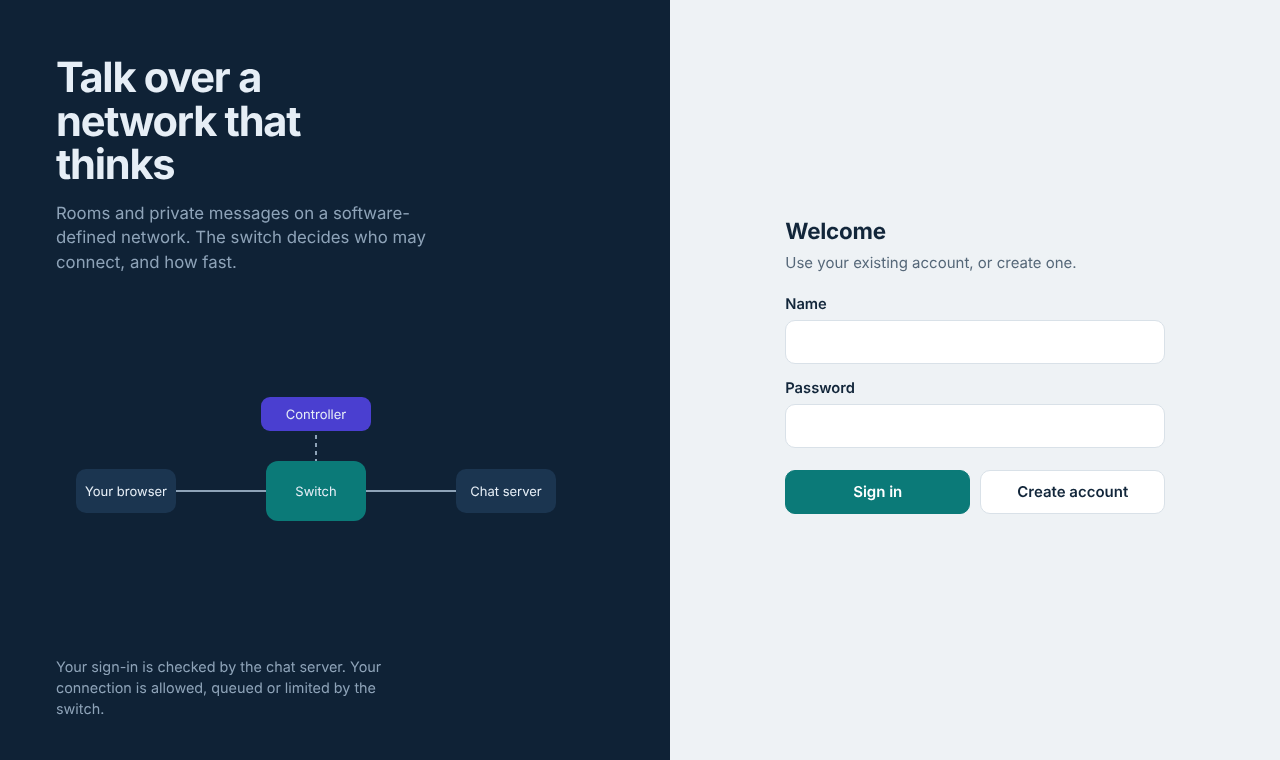
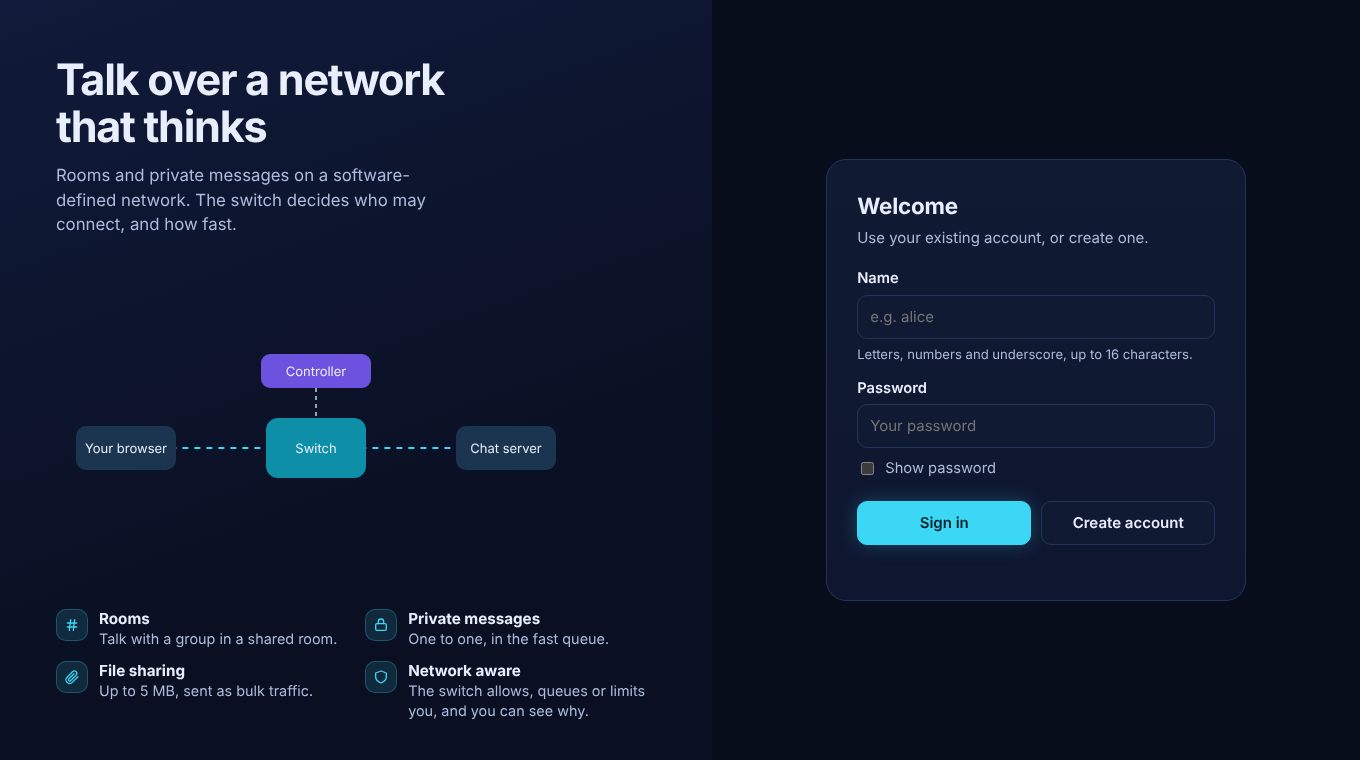
Web chat redesign: bubbles, emoji popover, network card, sign-in features (#25)
Claude-Session: https://claude.ai/code/session_01B4cDAn8Jq8GJJrH72ftTQv

diff --git a/chat/web/index.html b/chat/web/index.html
@@ -29,12 +29,19 @@
   /* ---------- sign in ---------- */
   #login { min-height:100%; display:grid; grid-template-columns:minmax(0,1.1fr) minmax(0,1fr); }
   .brand { background:linear-gradient(160deg,#101a3a,#0a1022 70%); color:var(--rail-ink); padding:56px 56px 40px; display:flex; flex-direction:column; justify-content:space-between; gap:32px; }
-  .brand h1 { font-size:2.6rem; line-height:1.05; margin:0 0 14px; letter-spacing:-.03em; max-width:12ch; }
+  .brand h1 { font-size:2.7rem; line-height:1.08; margin:0 0 14px; letter-spacing:-.03em; max-width:16ch; }
   .brand p { color:var(--rail-muted); max-width:38ch; margin:0; font-size:1.05rem; }
   .brand svg { width:100%; max-width:520px; height:auto; }
   .brand .legend { color:var(--rail-muted); font-size:.9rem; margin:0; }
+  .feats { list-style:none; margin:0; padding:0; display:grid; grid-template-columns:1fr 1fr; gap:12px 18px; }
+  .feats li { display:flex; gap:11px; align-items:flex-start; color:var(--rail-muted); font-size:.9rem; line-height:1.35; }
+  .feats li b { display:block; color:var(--rail-ink); font-size:.95rem; }
+  .feats .fi { width:32px; height:32px; border-radius:10px; flex:none; display:grid; place-items:center; background:var(--accent-soft); color:var(--accent); border:1px solid rgba(60,215,244,.25); }
+  .feats .fi svg { width:16px; height:16px; fill:none; stroke:currentColor; stroke-width:2; stroke-linecap:round; stroke-linejoin:round; }
+  .brand .flowline { stroke-dasharray:6 6; animation:fl 1s linear infinite; } @keyframes fl { to { stroke-dashoffset:-12; } }
+  #lform { background:linear-gradient(180deg,var(--panel),#0f1730); border:1px solid var(--rule); border-radius:20px; padding:30px 30px 24px; }
   .formside { display:flex; align-items:center; justify-content:center; padding:32px; }
-  #lform { width:100%; max-width:380px; }
+  #lform { width:100%; max-width:420px; }
   #lform h2 { margin:0 0 4px; font-size:1.4rem; letter-spacing:-.01em; }
   #lform .sub { margin:0 0 20px; color:var(--muted); }
   #lform label { display:block; margin:14px 0 5px; font-weight:600; font-size:.92rem; }
@@ -52,13 +59,13 @@
   aside.rail { background:var(--rail); color:var(--rail-ink); display:flex; flex-direction:column; min-height:0; }
   .rail .top { padding:16px 16px 10px; display:flex; align-items:center; gap:10px; }
   .logo { width:32px; height:32px; border-radius:9px; background:var(--accent); color:var(--accent-ink); display:grid; place-items:center; flex:none; }
-  .rail .top strong { font-size:1.05rem; letter-spacing:-.01em; }
+  .rail .top strong { font-size:1.05rem; letter-spacing:-.01em; display:block; line-height:1.15; } .rail .top small { color:var(--rail-muted); font-size:.76rem; }
   .scroll { overflow:auto; padding:6px 10px 12px; flex:1; min-height:0; }
-  .rail h2 { font-size:.82rem; font-weight:650; color:var(--rail-muted); margin:16px 8px 6px; }
+  .rail h2 { font-size:.78rem; font-weight:650; color:var(--rail-muted); margin:18px 8px 6px; display:flex; align-items:center; gap:8px; } .rail h2 .n { font:600 .72rem var(--mono,monospace); padding:0 7px; border-radius:999px; background:var(--rail-hover); }
   .nav { list-style:none; margin:0; padding:0; }
   .nav button { width:100%; display:flex; align-items:center; gap:9px; padding:7px 8px; border:0; background:transparent; color:inherit; border-radius:8px; text-align:left; }
   .nav button:hover { background:var(--rail-hover); }
-  .nav button[aria-current="true"] { background:var(--rail-on); font-weight:650; }
+  .nav button[aria-current="true"] { background:var(--rail-on); font-weight:650; box-shadow:inset 3px 0 0 var(--accent); }
   .nav .name { flex:1; overflow:hidden; text-overflow:ellipsis; white-space:nowrap; }
   .hash { width:22px; text-align:center; color:var(--rail-muted); font-weight:700; }
   .badge { background:var(--accent); color:var(--accent-ink); border-radius:999px; font-size:.78rem; font-weight:700; padding:0 7px; min-width:20px; text-align:center; }
@@ -77,6 +84,9 @@
   .dot { position:absolute; right:-3px; bottom:-3px; width:10px; height:10px; border-radius:50%; background:var(--ok); border:2px solid var(--rail); }
 
   main { display:flex; flex-direction:column; min-width:0; min-height:0; background:var(--ground); }
+  .hic { width:40px; height:40px; border-radius:12px; display:grid; place-items:center; font-weight:700; font-size:1.15rem; flex:none; background:var(--accent-soft); color:var(--accent); border:1px solid rgba(60,215,244,.25); }
+  .hic.pm { background:var(--pm-soft); color:var(--pm); border-color:rgba(165,139,250,.3); } .hic.av { color:#fff; border:0; }
+  .netchip::before { content:""; display:inline-block; width:7px; height:7px; border-radius:50%; background:currentColor; margin-right:7px; vertical-align:1px; box-shadow:0 0 8px currentColor; }
   header.bar { background:var(--panel); border-bottom:1px solid var(--rule); padding:12px 20px; display:flex; align-items:center; gap:12px; box-shadow:var(--shadow); }
   header.bar .t { min-width:0; flex:1; }
   header.bar h1 { margin:0; font-size:1.1rem; letter-spacing:-.01em; display:flex; align-items:center; gap:8px; }
@@ -95,18 +105,21 @@
   #thread { position:absolute; inset:0; overflow:auto; padding:18px 20px 8px; }
   .day { text-align:center; margin:14px 0 10px; color:var(--muted); font-size:.85rem; font-weight:600; display:flex; align-items:center; gap:12px; }
   .day::before, .day::after { content:""; flex:1; height:1px; background:var(--rule); }
-  .msg { display:grid; grid-template-columns:34px minmax(0,1fr); gap:0 12px; padding:2px 0; }
-  .msg.cont { margin-top:-1px; }
-  .msg .av { margin-top:2px; }
-  .msg .gutter { color:transparent; font-size:.72rem; text-align:right; padding-top:5px; }
-  .msg:hover .gutter { color:var(--muted); }
-  .msg .head { display:flex; align-items:baseline; gap:8px; }
-  .msg .head b { font-weight:700; }
-  .msg .head time { color:var(--muted); font-size:.8rem; }
-  .msg .body { white-space:pre-wrap; overflow-wrap:anywhere; max-width:72ch; }
-  .msg.mine .head b { color:var(--accent); }
-  .msg.pm .body { border-left:3px solid var(--pm); padding-left:10px; }
-  .msg:not(.pm) .body { color:#dfe7fb; }
+  .msg { display:flex; gap:10px; padding:2px 0; align-items:flex-start; }
+  .msg.mine { flex-direction:row-reverse; }
+  .msg .av, .msg .sp { margin-top:20px; width:34px; flex:none; } .msg.cont .av, .msg.cont .sp { margin-top:0; }
+  .msg .col { max-width:min(74%,600px); min-width:0; display:flex; flex-direction:column; align-items:flex-start; }
+  .msg.mine .col { align-items:flex-end; }
+  .msg .head { display:flex; align-items:baseline; gap:8px; margin:0 4px 3px; }
+  .msg .head b { font-weight:700; font-size:.88rem; }
+  .bubble { padding:8px 13px 5px; border-radius:6px 18px 18px 18px; background:#16213f; border:1px solid var(--rule); min-width:0; max-width:100%; }
+  .msg.cont:not(.mine) .bubble { border-top-left-radius:6px; } .msg:not(.cont):not(.mine) .bubble { border-top-left-radius:18px; }
+  .msg.mine .bubble { border-radius:18px 6px 18px 18px; background:linear-gradient(135deg,rgba(60,215,244,.26),rgba(60,215,244,.12)); border-color:rgba(60,215,244,.38); }
+  .msg.mine:not(.cont) .bubble { border-top-right-radius:18px; }
+  .msg.pm .bubble { background:linear-gradient(135deg,rgba(165,139,250,.22),rgba(165,139,250,.1)); border-color:rgba(165,139,250,.38); }
+  .msg .body { white-space:pre-wrap; overflow-wrap:anywhere; color:#e6ecfc; }
+  .bubble time { display:block; text-align:right; color:var(--muted); font-size:.68rem; margin-top:1px; opacity:.85; }
+  .bubble .filecard { background:rgba(8,13,28,.35); }
   .filecard { display:inline-flex; align-items:center; gap:12px; padding:9px 12px; border:1px solid var(--rule); border-radius:12px; background:linear-gradient(180deg,#14203f,#101a36); max-width:100%; }
   .filecard .ico { width:36px; height:36px; border-radius:9px; background:var(--accent-soft); color:var(--accent); display:grid; place-items:center; flex:none; font-weight:700; font-size:.72rem; }
   .filecard .meta { min-width:0; } .filecard .meta b { display:block; overflow:hidden; text-overflow:ellipsis; white-space:nowrap; max-width:30ch; }
@@ -126,7 +139,13 @@
   #jump { position:absolute; left:50%; bottom:12px; transform:translateX(-50%); background:var(--ink); color:var(--ground); border:0; border-radius:999px; padding:6px 16px; font-weight:650; box-shadow:0 2px 8px rgba(0,0,0,.25); }
 
   form#send { padding:10px 20px 16px; background:var(--ground); }
-  .composer { background:var(--panel); border:1px solid var(--rule); border-radius:14px; padding:8px 10px 8px 14px; display:flex; flex-direction:column; gap:6px; box-shadow:var(--shadow); }
+  .composer { position:relative; background:var(--panel); border:1px solid var(--rule); border-radius:18px; padding:8px 10px 8px 14px; display:flex; flex-direction:column; gap:6px; box-shadow:var(--shadow); }
+  .tools .tb { border:0; background:transparent; padding:5px 7px; border-radius:8px; color:var(--muted); display:inline-grid; place-items:center; }
+  .tools .tb:hover:not(:disabled) { background:var(--accent-soft); color:var(--accent); } .tools .tb:disabled { opacity:.4; cursor:not-allowed; }
+  .emopop { position:absolute; left:10px; bottom:calc(100% + 8px); display:flex; gap:2px; padding:6px; background:#16213f; border:1px solid var(--rule); border-radius:14px; box-shadow:0 10px 30px rgba(0,0,0,.45); z-index:5; }
+  .emopop .emo { border:0; background:transparent; font-size:1.25rem; padding:4px 6px; border-radius:8px; } .emopop .emo:hover { background:var(--accent-soft); }
+  .tools .btn.primary.round { width:38px; height:38px; padding:0; border-radius:50%; display:grid; place-items:center; }
+  .tools .btn.primary.round svg { width:18px; height:18px; fill:none; stroke:currentColor; stroke-width:2.2; stroke-linecap:round; stroke-linejoin:round; }
   .composer:focus-within { border-color:var(--accent); }
   .composer textarea { border:0; padding:4px 0; resize:none; max-height:150px; min-height:24px; background:transparent; outline:0; border-radius:0; }
   .tools { display:flex; align-items:center; gap:2px; }
@@ -137,33 +156,39 @@
   .btn:disabled { opacity:.5; cursor:not-allowed; }
 
   aside.info { background:var(--panel); border-left:1px solid var(--rule); overflow:auto; padding:16px; min-height:0; }
-  aside.info h2 { font-size:.92rem; margin:0 0 8px; }
+  aside.info h2 { font-size:.9rem; margin:0 0 8px; display:flex; align-items:center; gap:8px; } aside.info h2 .n { font:600 .72rem ui-monospace,monospace; padding:0 7px; border-radius:999px; background:var(--rule); color:var(--muted); }
   .people { list-style:none; margin:0 0 20px; padding:0; }
   .people button { width:100%; display:flex; align-items:center; gap:10px; padding:6px 4px; border:0; background:transparent; border-radius:8px; text-align:left; }
   .people button:hover { background:var(--accent-soft); }
   .people .dot { border-color:var(--panel); }
-  .net { border:1px solid var(--rule); border-radius:12px; padding:14px; background:linear-gradient(180deg,#131d3a,#0f1730); }
-  .spark { width:100%; height:46px; display:block; margin:6px 0 2px; }
+  .net { border:1px solid var(--rule); border-radius:16px; padding:14px; background:linear-gradient(180deg,#131d3a,#0f1730); --st:var(--accent); }
+  .net.warn { --st:var(--warn); } .net.bad { --st:var(--bad); }
+  .net .stat { display:flex; align-items:center; gap:10px; margin-bottom:10px; }
+  .net .stat .big { width:38px; height:38px; border-radius:12px; display:grid; place-items:center; flex:none; color:var(--st); background:color-mix(in srgb, var(--st) 14%, transparent); border:1px solid color-mix(in srgb, var(--st) 40%, transparent); }
+  .net .stat .big svg { width:19px; height:19px; fill:none; stroke:currentColor; stroke-width:2; stroke-linecap:round; stroke-linejoin:round; }
+  .net .stat b { display:block; font-size:1rem; } .net .stat span { color:var(--muted); font-size:.8rem; }
+  .net .pathsvg { width:100%; height:auto; display:block; margin:2px 0 10px; }
+  .net .pathsvg .fl { stroke:var(--st); stroke-width:3; stroke-linecap:round; stroke-dasharray:6 6; animation:fl 1s linear infinite; }
+  .net .tiles { display:grid; grid-template-columns:1fr 1fr; gap:8px; margin-bottom:10px; }
+  .net .tile { background:rgba(8,13,28,.45); border:1px solid var(--rule); border-radius:11px; padding:8px 10px; min-width:0; }
+  .net .tile span { display:block; color:var(--muted); font-size:.74rem; } .net .tile b { display:block; font:600 .98rem/1.3 ui-monospace,Menlo,Consolas,monospace; overflow-wrap:anywhere; }
+  .net .meter { height:6px; border-radius:3px; background:var(--rule); margin-top:6px; overflow:hidden; } .net .meter i { display:block; height:100%; background:var(--ok); border-radius:3px; transition:width .5s; } .net .meter i.hot { background:var(--warn); }
+  .net .chips { margin:0 0 8px; }
+  .spark { width:100%; height:50px; display:block; margin:2px 0; }
   .why { margin:8px 0 0; padding:8px 10px; border-radius:9px; background:var(--warn-soft); color:var(--warn); font-size:.85rem; }
   .why.bad { background:var(--bad-soft); color:var(--bad); }
   #toast { position:fixed; right:18px; bottom:18px; background:#16213f; border:1px solid var(--rule); border-radius:10px; padding:9px 14px; font-size:.9rem; max-width:340px; z-index:6; }
-  .net svg { width:100%; height:auto; display:block; margin-bottom:8px; }
-  .net .row { display:flex; justify-content:space-between; gap:10px; padding:4px 0; border-top:1px solid var(--rule); font-size:.9rem; }
-  .net .row:first-of-type { border-top:0; }
-  .net .row span:first-child { color:var(--muted); }
   .chip { display:inline-block; font-size:.78rem; font-weight:650; padding:1px 9px; border-radius:999px; margin:0 4px 4px 0; background:var(--accent-soft); color:var(--accent); }
-  .chip.vip { background:var(--pm-soft); color:var(--pm); }
-  .chip.warn { background:var(--warn-soft); color:var(--warn); }
-  .chip.bad { background:var(--bad-soft); color:var(--bad); }
-  .chip.off { background:var(--rule); color:var(--muted); }
+  .chip.vip { background:var(--pm-soft); color:var(--pm); } .chip.warn { background:var(--warn-soft); color:var(--warn); } .chip.bad { background:var(--bad-soft); color:var(--bad); } .chip.off { background:var(--rule); color:var(--muted); }
   .note { color:var(--muted); font-size:.85rem; margin:8px 0 0; }
 
   #conn { position:fixed; left:50%; bottom:14px; transform:translateX(-50%); background:var(--bad); color:#fff; padding:6px 16px; border-radius:999px; font-weight:650; z-index:5; }
 
   @media (max-width:1100px) { #app { grid-template-columns:260px minmax(0,1fr); } aside.info { display:none; } }
   @media (max-width:760px) {
+    .feats { grid-template-columns:1fr; } #lform { padding:22px 20px; } .msg .col { max-width:86%; }
     .tools .hint { display:none; } .tools .btn.primary { margin-left:auto; }
-    #login { grid-template-columns:1fr; } .brand { padding:28px; } .brand h1 { font-size:2rem; } .brand svg { display:none; }
+    #login { grid-template-columns:1fr; } .brand { padding:28px; } .brand h1 { font-size:2rem; } .brand svg { display:none; } .brand .feats { display:none; }
     #app { grid-template-columns:1fr; }
     aside.rail { position:fixed; inset:0 18% 0 0; z-index:10; transform:translateX(-102%); transition:transform .2s; }
     aside.rail.open { transform:none; box-shadow:0 0 0 100vmax rgba(0,0,0,.45); }
@@ -181,7 +206,7 @@
       <p>Rooms and private messages on a software-defined network. The switch decides who may connect, and how fast.</p>
     </div>
     <svg viewBox="0 0 520 150" role="img" aria-label="A client reaches the chat server through a switch controlled by a controller">
-      <g fill="none" stroke="#8ea3b8" stroke-width="2"><path d="M70 100 H220"/><path d="M300 100 H450"/><path d="M260 36 V70" stroke-dasharray="4 4"/></g>
+      <g fill="none" stroke="#8ea3b8" stroke-width="2"><path class="flowline" stroke="#3cd7f4" d="M120 100 H210"/><path class="flowline" stroke="#3cd7f4" d="M310 100 H400"/><path d="M260 40 V70" stroke-dasharray="4 4"/></g>
       <g font-size="13" fill="#e6eef6" text-anchor="middle">
         <rect x="20" y="78" width="100" height="44" rx="10" fill="#1b3550"/><text x="70" y="105">Your browser</text>
         <rect x="210" y="70" width="100" height="60" rx="12" fill="#0e8fa8"/><text x="260" y="105">Switch</text>
@@ -189,7 +214,12 @@
         <rect x="205" y="6" width="110" height="34" rx="9" fill="#6d52e0"/><text x="260" y="28">Controller</text>
       </g>
     </svg>
-    <p class="legend">Your sign-in is checked by the chat server. Your connection is allowed, queued or limited by the switch.</p>
+    <ul class="feats">
+      <li><span class="fi"><svg viewBox="0 0 24 24"><path d="M5 9h14M5 15h14M10 4L8 20M16 4l-2 16"/></svg></span><div><b>Rooms</b>Talk with a group in a shared room.</div></li>
+      <li><span class="fi"><svg viewBox="0 0 24 24"><rect x="4" y="10" width="16" height="10" rx="2"/><path d="M8 10V7a4 4 0 018 0v3"/></svg></span><div><b>Private messages</b>One to one, in the fast queue.</div></li>
+      <li><span class="fi"><svg viewBox="0 0 24 24"><path d="M21 11.5l-8.6 8.6a5.5 5.5 0 01-7.8-7.8l8.6-8.6a3.7 3.7 0 015.2 5.2l-8.6 8.6a1.8 1.8 0 01-2.6-2.6l7.9-7.9"/></svg></span><div><b>File sharing</b>Up to 5 MB, sent as bulk traffic.</div></li>
+      <li><span class="fi"><svg viewBox="0 0 24 24"><path d="M12 3l8 3v6c0 4-3.5 7-8 9-4.5-2-8-5-8-9V6z"/></svg></span><div><b>Network aware</b>The switch allows, queues or limits you, and you can see why.</div></li>
+    </ul>
   </div>
   <div class="formside">
     <form id="lform">
@@ -207,15 +237,15 @@
 
 <div id="app" hidden>
   <aside class="rail" id="rail" aria-label="Rooms and people">
-    <div class="top"><span class="logo" aria-hidden="true"><svg width="18" height="18" viewBox="0 0 24 24" fill="none" stroke="currentColor" stroke-width="2.2" stroke-linecap="round"><path d="M4 6h16M4 12h10M4 18h13"/></svg></span><strong>Chat network</strong></div>
+    <div class="top"><span class="logo" aria-hidden="true"><svg width="18" height="18" viewBox="0 0 24 24" fill="none" stroke="currentColor" stroke-width="2.2" stroke-linecap="round"><path d="M4 6h16M4 12h10M4 18h13"/></svg></span><div><strong>Chat network</strong><small>on a software-defined network</small></div></div>
     <div class="scroll">
-      <h2>Rooms</h2>
+      <h2>Rooms <span class="n" id="nRooms">0</span></h2>
       <ul class="nav" id="rooms"></ul>
       <p class="empty" id="noRooms">You are not in any room yet.</p>
       <form class="joinbox" id="jform"><label class="sr" for="jr">Room name</label><input id="jr" placeholder="New or existing room" required maxlength="16" pattern="[A-Za-z0-9_]{1,16}" title="Letters, numbers and underscore, up to 16 characters"><button type="submit">Join</button></form>
       <h2 id="browseH" hidden>Other rooms</h2>
       <ul class="nav" id="browse"></ul>
-      <h2>Direct messages</h2>
+      <h2>Direct messages <span class="n" id="nDms">0</span></h2>
       <ul class="nav" id="dms"></ul>
       <p class="empty" id="noDms">Nobody else is online.</p>
     </div>
@@ -225,6 +255,7 @@
   <main>
     <header class="bar">
       <button id="menu" type="button" aria-label="Open rooms and people">Menu</button>
+      <span class="hic" id="hic" hidden></span>
       <div class="t"><h1><span id="tt">Choose a room or a person</span> <span class="pill room" id="tpill" hidden></span></h1><small id="ts"></small></div>
       <span class="pill netchip" id="netchip" hidden></span>
     </header>
@@ -234,14 +265,15 @@
       <div class="composer">
         <label class="sr" for="msg">Message</label>
         <textarea id="msg" rows="1" placeholder="Write a message" disabled maxlength="2000"></textarea>
-        <div class="tools" id="emos"><button type="button" class="clip" id="clip" title="Share a file (up to 5 MB)" aria-label="Share a file" disabled><svg width="18" height="18" viewBox="0 0 24 24" fill="none" stroke="currentColor" stroke-width="2" stroke-linecap="round" stroke-linejoin="round"><path d="M21 11.5l-8.6 8.6a5.5 5.5 0 01-7.8-7.8l8.6-8.6a3.7 3.7 0 015.2 5.2l-8.6 8.6a1.8 1.8 0 01-2.6-2.6l7.9-7.9"/></svg></button><input type="file" id="pick" hidden><span class="hint">Enter to send, Shift+Enter for a new line</span><button class="btn primary" type="submit" id="sbtn" disabled>Send</button></div>
+        <div class="tools" id="emos"><button type="button" class="tb" id="clip" title="Share a file (up to 5 MB)" aria-label="Share a file" disabled><svg width="19" height="19" viewBox="0 0 24 24" fill="none" stroke="currentColor" stroke-width="2" stroke-linecap="round" stroke-linejoin="round"><path d="M21 11.5l-8.6 8.6a5.5 5.5 0 01-7.8-7.8l8.6-8.6a3.7 3.7 0 015.2 5.2l-8.6 8.6a1.8 1.8 0 01-2.6-2.6l7.9-7.9"/></svg></button><input type="file" id="pick" hidden><button type="button" class="tb" id="emoBtn" title="Add an emoji" aria-label="Add an emoji" aria-expanded="false" disabled><svg width="19" height="19" viewBox="0 0 24 24" fill="none" stroke="currentColor" stroke-width="2" stroke-linecap="round" stroke-linejoin="round"><circle cx="12" cy="12" r="9"/><path d="M8 14s1.5 2 4 2 4-2 4-2M9 9.5h.01M15 9.5h.01"/></svg></button><span class="hint">Enter to send, Shift+Enter for a new line</span><button class="btn primary round" type="submit" id="sbtn" aria-label="Send" title="Send" disabled><svg viewBox="0 0 24 24"><path d="M5 12h13M13 6l6 6-6 6"/></svg></button></div>
+        <div class="emopop" id="emopop" hidden></div>
       </div>
     </form>
   </main>
 
   <aside class="info" aria-label="Online people and network">
-    <div id="inroomBox" hidden><h2 id="inroomH">In this room</h2><ul class="people" id="inroom"></ul></div>
-    <h2>Online on the server</h2>
+    <div id="inroomBox" hidden><h2>In this room <span class="n" id="nIn">0</span></h2><ul class="people" id="inroom"></ul></div>
+    <h2>Online on the server <span class="n" id="nOn">0</span></h2>
     <ul class="people" id="online"></ul>
     <h2>Your network path</h2>
     <div class="net" id="net"><p class="note">Checking the network...</p></div>
@@ -326,16 +358,17 @@
       if (dk !== lastDay) { t.appendChild(el("div", "day", dayLabel(m.ts))); lastDay = dk; prev = null; }
       var cont = prev && prev.who === m.who && prev.kind === m.kind && m.ts - prev.ts < 300;
       var row = el("div", "msg" + (cont ? " cont" : "") + (m.mine ? " mine" : "") + (m.kind === "pm" ? " pm" : ""));
-      if (cont) { row.appendChild(el("span", "gutter", hhmm(m.ts))); }
-      else { row.appendChild(avatar(m.who)); }
-      var col = el("div");
-      if (!cont) {
-        var h = el("div", "head"); h.appendChild(el("b", "", m.mine ? "You" : m.who)); h.appendChild(el("time", "", hhmm(m.ts)));
+      if (!m.mine) { if (cont) { row.appendChild(el("span", "sp")); } else { row.appendChild(avatar(m.who)); } }
+      var col = el("div", "col");
+      if (!cont && !m.mine) {
+        var h = el("div", "head"); h.appendChild(el("b", "", m.who));
         if (m.kind === "pm") { h.appendChild(el("span", "pill pm", "private")); }
         col.appendChild(h);
       }
-      if (m.file) { col.appendChild(fileCard(m)); } else { col.appendChild(el("div", "body", m.text)); }
-      row.appendChild(col); t.appendChild(row); prev = m;
+      var bub = el("div", "bubble");
+      if (m.file) { bub.appendChild(fileCard(m)); } else { bub.appendChild(el("div", "body", m.text)); }
+      bub.appendChild(el("time", "", hhmm(m.ts)));
+      col.appendChild(bub); row.appendChild(col); t.appendChild(row); prev = m;
     });
     if (force || near) { t.scrollTop = t.scrollHeight; $("jump").hidden = true; } else { $("jump").hidden = false; }
   }
@@ -394,7 +427,7 @@
     others.forEach(function (n) { navItem(br, "browse:" + n, n, {hash: true, onclick: function () { joinRoom(n); closeRail(); }}); });
     var names = people.concat(dmExtra.filter(function (n) { return people.indexOf(n) < 0; }));
     names.forEach(function (n) { navItem(d, "pm:" + n, n, {online: people.indexOf(n) >= 0}); });
-    $("noDms").hidden = names.length > 0;
+    $("noDms").hidden = names.length > 0; $("nRooms").textContent = rooms.length; $("nDms").textContent = names.length; $("nOn").textContent = people.length;
     var on = $("online"); on.textContent = "";
     if (!people.length) { var li = el("li", "note", "Nobody else is online."); on.appendChild(li); }
     people.forEach(function (n) {
@@ -411,7 +444,7 @@
     var box = $("inroomBox"), ul = $("inroom"), inRoom = !!cur && cur.indexOf("room:") === 0;
     box.hidden = !inRoom;
     if (!inRoom) { return; }
-    $("inroomH").textContent = "In this room (" + roomMembers.length + ")";
+    $("nIn").textContent = roomMembers.length;
     ul.textContent = "";
     roomMembers.forEach(function (n) {
       var li = el("li"), b = el("button"); b.type = "button";
@@ -437,7 +470,9 @@
     $("tt").textContent = room ? "# " + name : name;
     var pill = $("tpill"); pill.hidden = false; pill.className = "pill " + (room ? "room" : "pm"); pill.textContent = room ? "Room" : "Private";
     $("ts").textContent = room ? "Everyone in this room sees your messages" : (people.indexOf(name) >= 0 ? "Online. Only you two can read this" : "Offline. Messages cannot be delivered right now");
-    $("msg").disabled = false; fit(); $("clip").disabled = false; $("msg").focus();
+    var hic = $("hic"); hic.hidden = false; hic.textContent = ""; hic.className = "hic" + (room ? "" : " pm");
+    if (room) { hic.textContent = "#"; } else { hic.className = "hic av"; hic.style.background = color(name); hic.textContent = (name[0] || "?").toUpperCase(); }
+    $("msg").disabled = false; fit(); $("clip").disabled = false; $("emoBtn").disabled = false; $("msg").focus();
     drawNav(); drawThread(true); loadMembers();
   }
 
@@ -477,50 +512,54 @@
   function fmtBytes(n) { return n < 1024 ? n + " B" : n < 1048576 ? (n / 1024).toFixed(1) + " KB" : (n / 1048576).toFixed(2) + " MB"; }
   function spark() {
     var NS = "http://www.w3.org/2000/svg", svg = document.createElementNS(NS, "svg"), mx = Math.max.apply(null, bpsHist.concat([1000]));
-    svg.setAttribute("viewBox", "0 0 260 46"); svg.setAttribute("class", "spark"); svg.setAttribute("role", "img"); svg.setAttribute("aria-label", "Your recent traffic");
-    var pts = bpsHist.map(function (v, i) { return (i / 39 * 260).toFixed(1) + "," + (42 - v / mx * 36).toFixed(1); });
-    if (pts.length > 1) { var pl = document.createElementNS(NS, "polyline"); pl.setAttribute("points", pts.join(" ")); pl.setAttribute("fill", "none"); pl.setAttribute("stroke", "var(--accent)"); pl.setAttribute("stroke-width", "2"); svg.appendChild(pl); }
+    svg.setAttribute("viewBox", "0 0 260 46"); var bl = document.createElementNS(NS, "line"); bl.setAttribute("x1", "0"); bl.setAttribute("x2", "260"); bl.setAttribute("y1", "43"); bl.setAttribute("y2", "43"); bl.setAttribute("stroke", "var(--rule)"); svg.appendChild(bl); svg.setAttribute("class", "spark"); svg.setAttribute("role", "img"); svg.setAttribute("aria-label", "Your recent traffic");
+    var off = 40 - bpsHist.length, pts = bpsHist.map(function (v, i) { return ((off + i) / 39 * 260).toFixed(1) + "," + (42 - v / mx * 36).toFixed(1); });
+    if (pts.length > 1) { var ar = document.createElementNS(NS, "polygon"); ar.setAttribute("points", (off / 39 * 260).toFixed(1) + ",46 " + pts.join(" ") + " 260,46"); ar.setAttribute("fill", "var(--accent)"); ar.setAttribute("fill-opacity", ".14"); svg.appendChild(ar); var pl = document.createElementNS(NS, "polyline"); pl.setAttribute("points", pts.join(" ")); pl.setAttribute("fill", "none"); pl.setAttribute("stroke", "var(--accent)"); pl.setAttribute("stroke-width", "2"); svg.appendChild(pl); }
     return svg;
   }
   var toastT = null;
   function toast(t) { var e = $("toast"); if (!e) { e = el("div"); e.id = "toast"; e.setAttribute("role", "status"); document.body.appendChild(e); } e.textContent = t; e.hidden = false; clearTimeout(toastT); toastT = setTimeout(function () { e.hidden = true; }, 4000); }
   function chip(text, cls) { return el("span", "chip " + (cls || ""), text); }
   function drawNet(n) {
-    var box = $("net"), alert = $("netAlert"), nc = $("netchip"); box.textContent = ""; alert.hidden = true; nc.hidden = true;
+    var box = $("net"), alert = $("netAlert"), nc = $("netchip"); box.textContent = ""; box.className = "net"; alert.hidden = true; nc.hidden = true;
     if (!n || !n.ok || !n.available) {
       box.appendChild(el("p", "note", "The controller is not reachable from here, so the network details are hidden. Chat still works."));
       return;
     }
-    nc.hidden = false;
-    nc.className = "pill netchip" + (n.blocked ? " bad" : (n.throttled || n.heavy) ? " warn" : "");
-    nc.textContent = n.mode === "baseline" ? "Baseline network" : n.blocked ? "Blocked" : n.throttled ? "Throttled" : n.heavy ? "Rate limited" : n.vip ? "VIP path" : n.allowed ? "Allowed" : "Not registered";
-    var path = document.createElementNS("http://www.w3.org/2000/svg", "svg");
-    path.setAttribute("viewBox", "0 0 260 64");
-    var hot = n.blocked ? "var(--bad)" : (n.throttled || n.heavy) ? "var(--warn)" : "var(--accent)";
-    path.innerHTML = '<g fill="none" stroke="' + hot + '" stroke-width="3"><path d="M52 40H108"/><path d="M152 40H208"/></g>' +
-      '<g font-size="11" text-anchor="middle" fill="var(--ink)"><rect x="6" y="26" width="46" height="28" rx="8" fill="var(--accent-soft)"/><text x="29" y="44">You</text>' +
-      '<rect x="108" y="22" width="44" height="36" rx="9" fill="' + hot + '"/><text x="130" y="44" fill="#fff">Switch</text>' +
-      '<rect x="208" y="26" width="46" height="28" rx="8" fill="var(--accent-soft)"/><text x="231" y="44">Server</text></g>';
+    var state = n.blocked ? "bad" : (n.throttled || n.heavy) ? "warn" : "";
+    box.className = "net " + state;
+    nc.hidden = false; nc.className = "pill netchip" + (state ? " " + state : "");
+    var label = n.mode === "baseline" ? "Baseline network" : n.blocked ? "Blocked" : n.throttled ? "Throttled" : n.heavy ? "Rate limited" : n.vip ? "VIP path" : n.allowed ? "Allowed" : "Not registered";
+    nc.textContent = label;
+    var sub = n.mode === "baseline" ? "Plain forwarding, no policy" : n.blocked ? "Everything from your host is dropped" : n.throttled || n.heavy ? "Moved to the slow queue" : n.vip ? "Fast queue for room chat" : n.allowed ? "Your host has a pass rule" : "The switch drops chat traffic until you sign in";
+    var icon = n.blocked ? '<path d="M5.6 5.6l12.8 12.8M12 3a9 9 0 100 18 9 9 0 000-18z"/>' : state ? '<path d="M12 8v5M12 16.5h.01M10.3 3.9L2.6 17.2A2 2 0 004.3 20h15.4a2 2 0 001.7-2.8L13.7 3.9a2 2 0 00-3.4 0z"/>' : '<path d="M12 3l8 3v6c0 4-3.5 7-8 9-4.5-2-8-5-8-9V6z"/><path d="M8.5 12l2.5 2.5 4.5-5"/>';
+    var st = el("div", "stat"); st.innerHTML = '<span class="big"><svg viewBox="0 0 24 24" aria-hidden="true">' + icon + "</svg></span>"; var tx = el("div"); tx.appendChild(el("b", "", label)); tx.appendChild(el("span", "", sub)); st.appendChild(tx); box.appendChild(st);
+    var path = document.createElementNS("http://www.w3.org/2000/svg", "svg"); path.setAttribute("viewBox", "0 0 260 52"); path.setAttribute("class", "pathsvg");
+    path.innerHTML = '<g fill="none"><path class="' + (n.blocked ? "" : "fl") + '" d="M54 26H104"/><path class="' + (n.blocked ? "" : "fl") + '" d="M156 26H206"/></g>' + (n.blocked ? '<path d="M118 14l24 24M142 14l-24 24" stroke="var(--bad)" stroke-width="3" stroke-linecap="round"/>' : "") +
+      '<g font-size="11" text-anchor="middle" fill="var(--ink)"><rect x="4" y="12" width="50" height="28" rx="9" fill="var(--accent-soft)" stroke="var(--rule)"/><text x="29" y="30">You</text>' +
+      '<rect x="104" y="8" width="52" height="36" rx="10" fill="var(--st)" fill-opacity=".9"/><text x="130" y="30" fill="#04202a" font-weight="700">Switch</text>' +
+      '<rect x="206" y="12" width="50" height="28" rx="9" fill="var(--accent-soft)" stroke="var(--rule)"/><text x="231" y="30">Server</text></g>';
     box.appendChild(path);
-    var r1 = el("div", "row"); r1.appendChild(el("span", "", "Your host")); r1.appendChild(el("span", "", n.ip || "unknown")); box.appendChild(r1);
-    var r2 = el("div", "row"); r2.appendChild(el("span", "", "Policy"));
-    var c = el("span");
-    if (n.mode === "baseline") { c.appendChild(chip("Baseline: no policy", "off")); }
+    var tiles = el("div", "tiles"), pct = Math.round((n.util || 0) * 100);
+    var tile = function (k, v, extra) { var t = el("div", "tile"); t.appendChild(el("span", "", k)); t.appendChild(el("b", "", v)); if (extra) { t.appendChild(extra); } return t; };
+    var mt = el("div", "meter"), mi = el("i", n.congested ? "hot" : ""); mi.style.width = Math.min(100, pct) + "%"; mt.appendChild(mi);
+    tiles.appendChild(tile("Server link", pct + "%" + (n.congested ? " busy" : ""), mt));
+    tiles.appendChild(tile("You send", fmtBps(n.bps || 0)));
+    tiles.appendChild(tile("Sent so far", n.bytes ? fmtBytes(n.bytes) : "0 B"));
+    tiles.appendChild(tile("Your host", n.ip || "unknown"));
+    box.appendChild(tiles);
+    var chips = el("div", "chips");
+    if (n.mode === "baseline") { chips.appendChild(chip("Baseline: no policy", "off")); }
+    else if (n.blocked) { chips.appendChild(chip("Blocked", "bad")); }
     else {
-      if (n.blocked) { c.appendChild(chip("Blocked", "bad")); }
-      else {
-        c.appendChild(chip(n.allowed ? "Allowed" : "Not registered", n.allowed ? "" : "bad"));
-        if (n.vip) { c.appendChild(chip("VIP queue", "vip")); }
-        if (n.throttled) { c.appendChild(chip("Throttled", "warn")); }
-        if (n.heavy) { c.appendChild(chip("Rate limited", "warn")); }
-      }
+      chips.appendChild(chip(n.allowed ? "Allowed" : "Not registered", n.allowed ? "" : "bad"));
+      if (n.vip) { chips.appendChild(chip("VIP queue", "vip")); }
+      if (n.throttled) { chips.appendChild(chip("Throttled", "warn")); }
+      if (n.heavy) { chips.appendChild(chip("Rate limited", "warn")); }
     }
-    r2.appendChild(c); box.appendChild(r2);
-    var r3 = el("div", "row"); r3.appendChild(el("span", "", "Server link")); r3.appendChild(el("span", "", Math.round((n.util || 0) * 100) + "%" + (n.congested ? ", congested" : ""))); box.appendChild(r3);
-    var r4 = el("div", "row"); r4.appendChild(el("span", "", "You are sending")); r4.appendChild(el("span", "", fmtBps(n.bps || 0))); box.appendChild(r4);
-    if (n.bytes) { var r5 = el("div", "row"); r5.appendChild(el("span", "", "Sent so far")); r5.appendChild(el("span", "", fmtBytes(n.bytes))); box.appendChild(r5); }
+    box.appendChild(chips);
     bpsHist.push(n.bps || 0); if (bpsHist.length > 40) { bpsHist.shift(); }
-    box.appendChild(spark());
+    box.appendChild(spark()); box.appendChild(el("p", "note", "Your traffic over the last two minutes"));
     var sig = [n.blocked, n.throttled, n.heavy, n.allowed].join();
     if (lastSig !== null && sig !== lastSig) { toast(n.blocked ? "The network blocked your host" : n.throttled ? "The network is throttling your host" : n.heavy ? "The network is rate limiting your host" : "Your host's policy changed"); }
     lastSig = sig;
@@ -528,7 +567,7 @@
     var how = n.blocked ? "The network is dropping everything from this host for a while (too many failed sign-ins)."
       : n.throttled ? "Too many messages too fast. The network moved this host to the slow bulk queue."
       : n.vip ? "Room chat travels in the fast queue because this host is on the VIP list."
-      : "Room chat uses the normal queue. Private messages use the fast queue.";
+      : "Room chat uses the normal queue. Private messages use the fast queue. Files use the bulk queue.";
     box.appendChild(el("p", "note", how));
     if (n.blocked || n.throttled) { alert.textContent = n.blocked ? "Your host is blocked by the network. Messages will not get through until the block expires." : "Your host is being throttled for sending too fast. Slow down and it will clear."; alert.className = "alert" + (n.blocked ? " bad" : ""); alert.hidden = false; }
   }
@@ -619,9 +658,12 @@
   $("msg").addEventListener("input", fit);
   EMOJI.forEach(function (x) {
     var b = el("button", "emo", x); b.type = "button"; b.setAttribute("aria-label", "Insert " + x);
-    b.onclick = function () { var t = $("msg"); if (!t.disabled) { t.value += x; t.focus(); fit(); } };
-    $("emos").insertBefore(b, $("emos").querySelector(".hint"));
+    b.onclick = function () { var t = $("msg"); if (!t.disabled) { t.value += x; t.focus(); fit(); } $("emopop").hidden = true; $("emoBtn").setAttribute("aria-expanded", "false"); };
+    $("emopop").appendChild(b);
   });
+  $("emoBtn").onclick = function (e) { e.stopPropagation(); var pop = $("emopop"); pop.hidden = !pop.hidden; $("emoBtn").setAttribute("aria-expanded", pop.hidden ? "false" : "true"); };
+  document.addEventListener("click", function (e) { if (!$("emopop").hidden && !$("emopop").contains(e.target)) { $("emopop").hidden = true; $("emoBtn").setAttribute("aria-expanded", "false"); } });
+  document.addEventListener("keydown", function (e) { if (e.key === "Escape") { $("emopop").hidden = true; } });
   $("thread").addEventListener("scroll", function () { var t = $("thread"); if (t.scrollHeight - t.scrollTop - t.clientHeight < 80) { $("jump").hidden = true; } });
   $("jump").onclick = function () { var t = $("thread"); t.scrollTop = t.scrollHeight; $("jump").hidden = true; };
   $("clip").onclick = function () { $("pick").click(); };

diff --git a/docs/screenshots/README.md b/docs/screenshots/README.md
@@ -14,7 +14,7 @@ and the passing test output. Deliverable 2: dashboard under congestion and link 
 
 ## Redesigned UI (design previews, sample data)
 
-`dashboard-v3-*.png` and `web-chat-v2-network-panel.png` show the redesigned dashboard and web chat. The chat server and
+`dashboard-v3-*.png` and the `web-chat-*.png` images show the redesigned dashboard and web chat. The chat server and
 web gateway were real; the controller was replaced by a small data stub so every state (congestion, a throttled host,
 a re-route) could be shown at once. They are previews of the layout, not measurements. Live screenshots from the
 Mininet VM replace them before the final demo.
